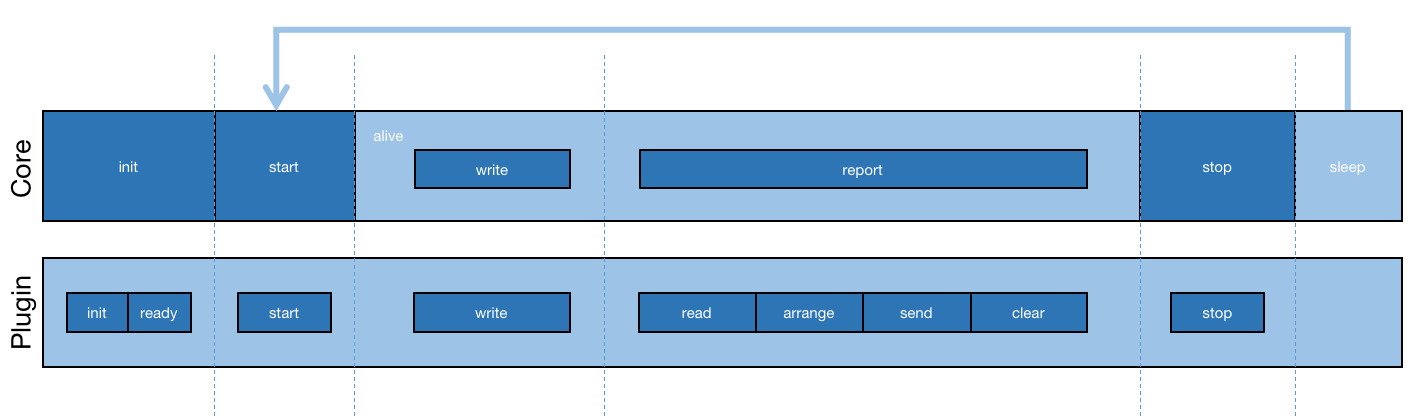
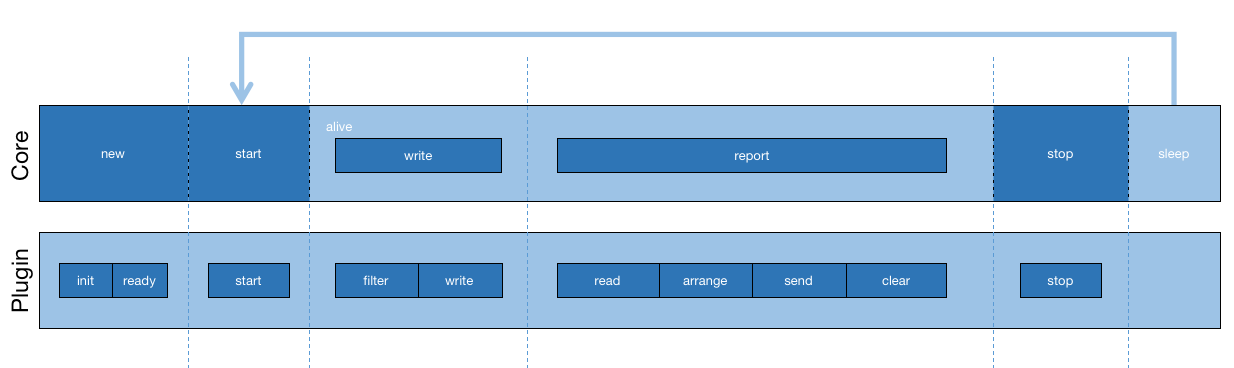
feat: support filter of plugin before write

diff --git a/packages/anys/src/index.js b/packages/anys/src/index.js
@@ -244,8 +244,19 @@ export class Anys {
             }
         }
 
-        this.invoke('write', data);
         this.emit('write', data);
+
+        for (let i = 0, len = this._pluginList.length; i < len; i += 1) {
+            const plugin = this._pluginList[i];
+            if (isFunction(plugin.filter)) {
+                if (!plugin.filter(data)) {
+                    continue;
+                }
+            }
+            if (isFunction(plugin.write)) {
+                plugin.write(data);
+            }
+        }
     }
 
     report(message) {
